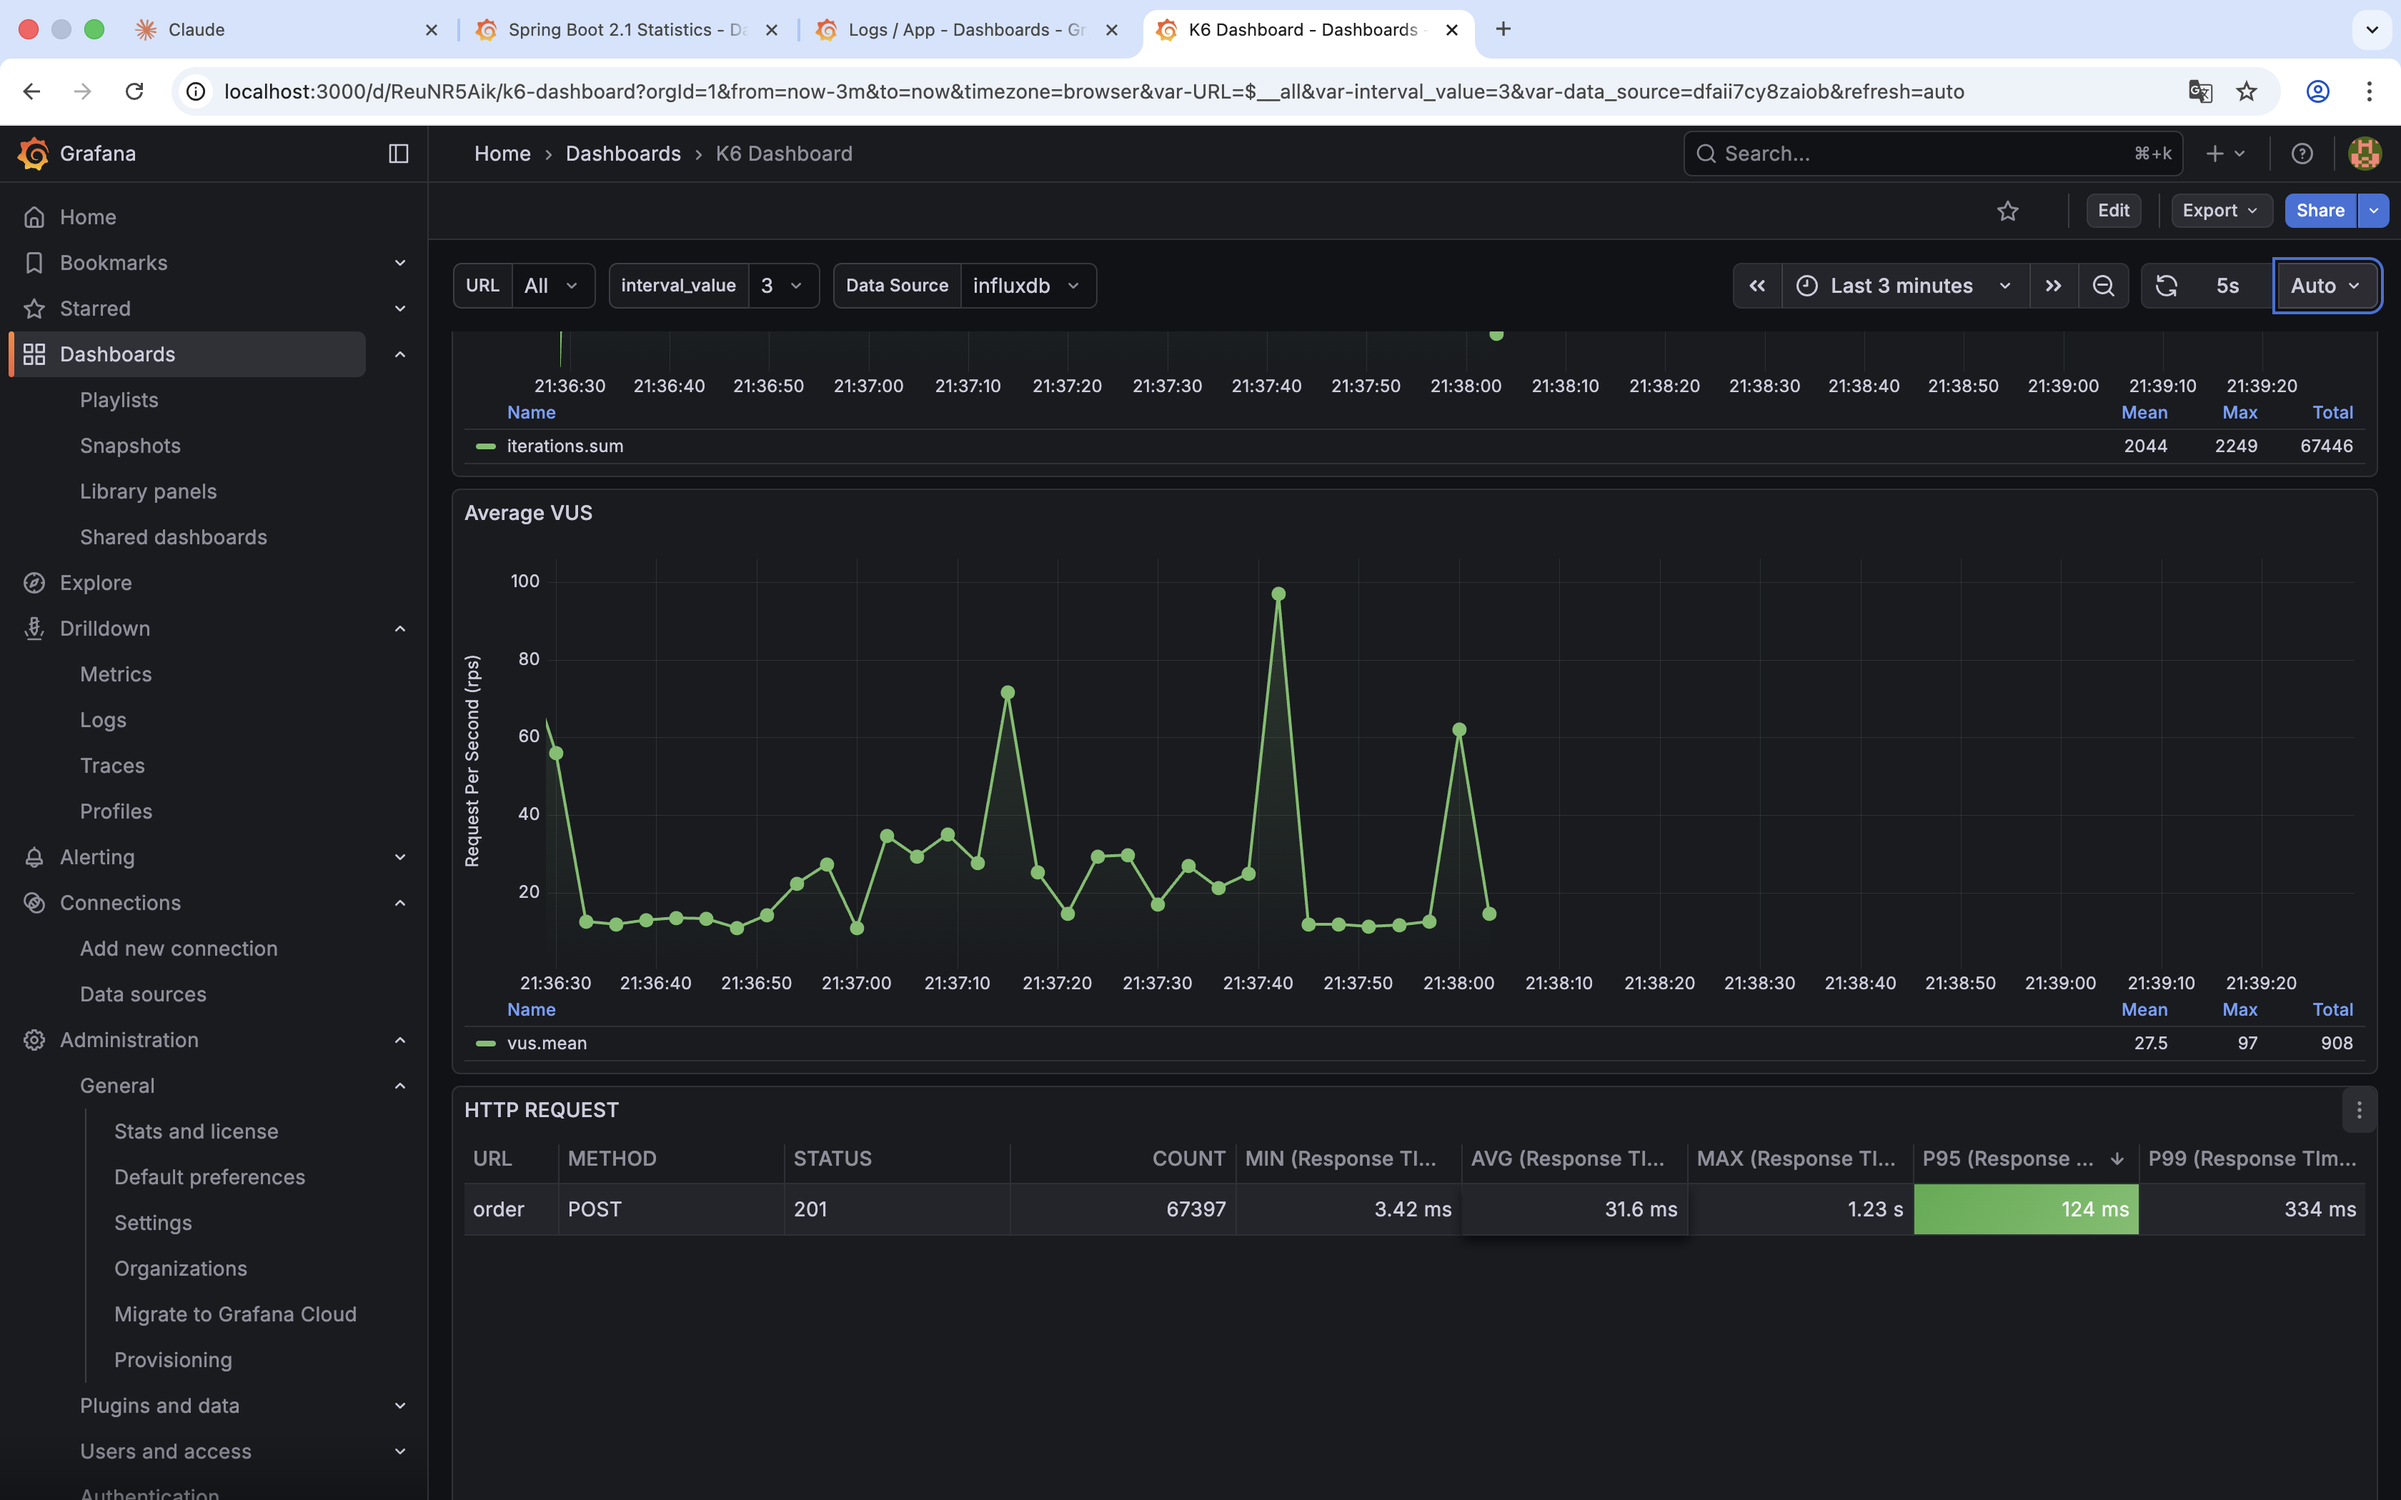
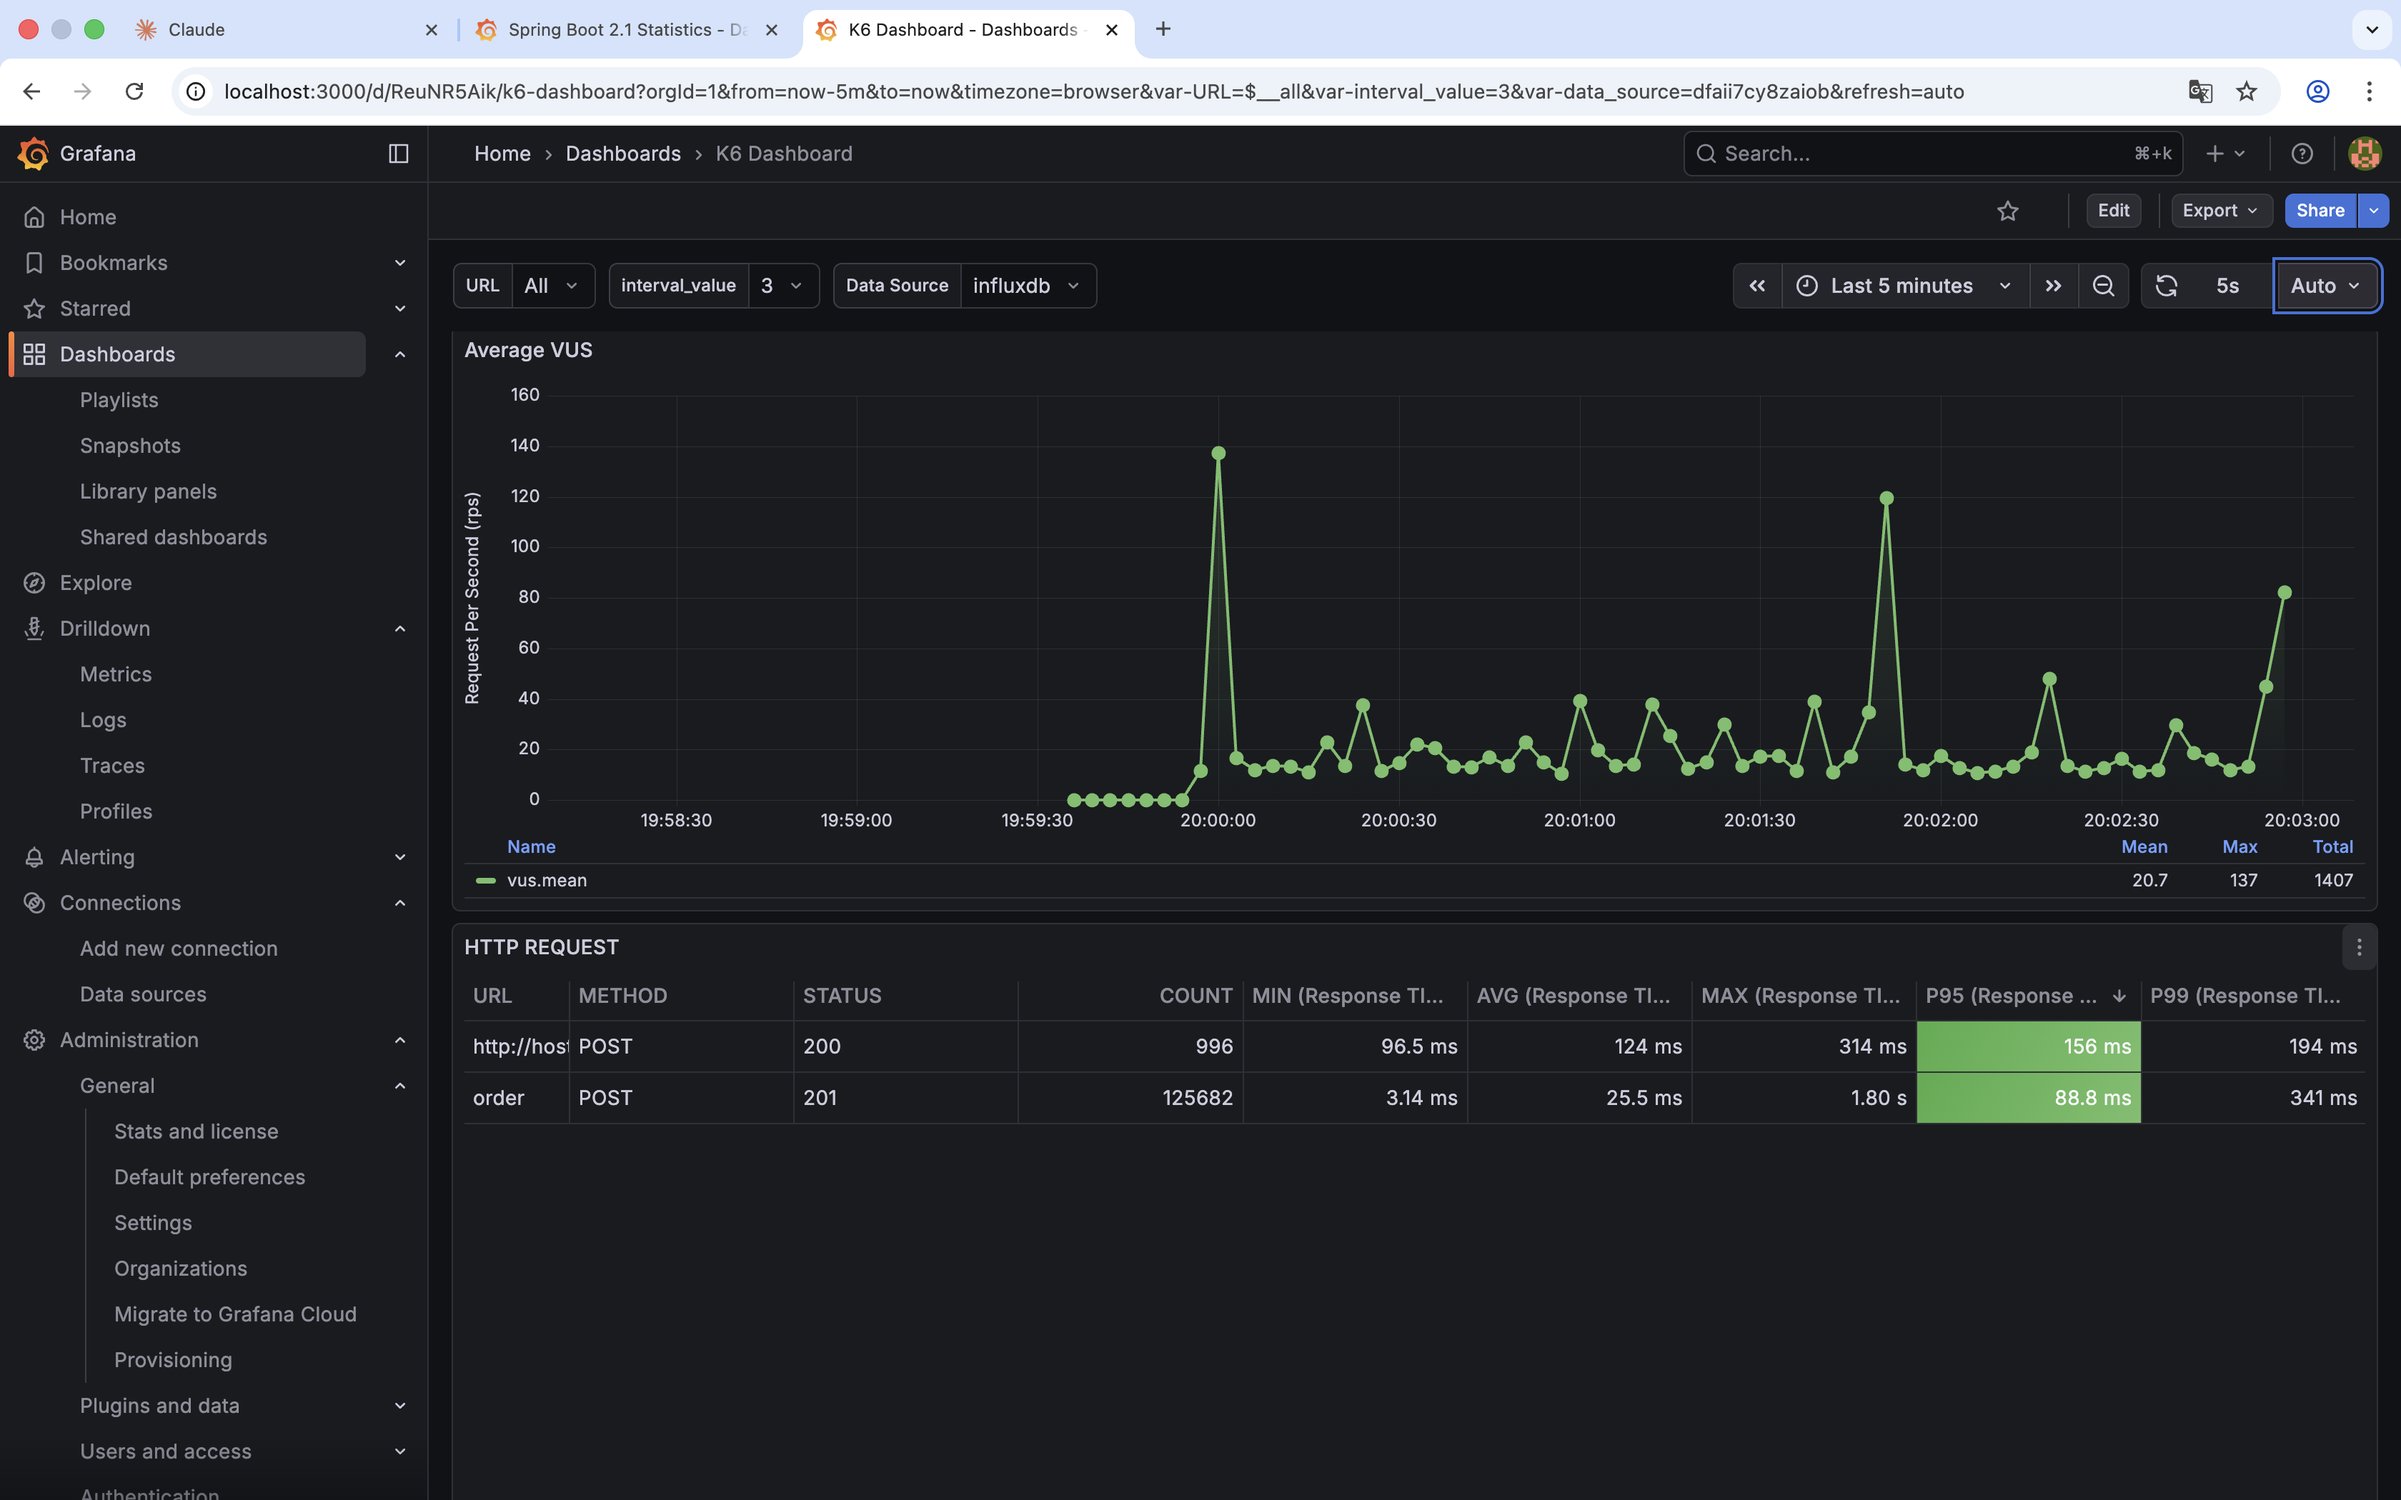
test(product): k6 script 로그인처리를 setup으로 옮긴뒤 부하 테스트 진행

diff --git a/k6/scripts/order-constant-test.js b/k6/scripts/order-constant-test.js
@@ -2,6 +2,7 @@ import http from "k6/http";
 import { check, sleep } from "k6";
 
 export const options = {
+    setupTimeout: "5m", // setup 타임아웃 5분으로 증가
     scenarios: {
         constant_load: {
             executor: "constant-arrival-rate",
@@ -29,46 +30,63 @@ const PRODUCT_ID = parseInt(__ENV.PRODUCT_ID || "2", 10);
 const QTY = parseInt(__ENV.QTY || "1", 10);
 const ITEMS_FIELD = __ENV.ITEMS_FIELD || "orderProducts";
 
-const tokenByVu = new Map();
-
 function getUserIndexForVu() {
     return ((__VU - 1) % USER_COUNT) + 1;
 }
 
-function loginAndGetToken(userIndex) {
-    const username = `test${userIndex}`;
+export function setup() {
+    console.log(`Setup: Logging in ${USER_COUNT} users...`);
+    const tokens = {};
+    const BATCH_SIZE = 50; // 50개씩 병렬 처리
 
-    const res = http.post(
-        `${BASE_URL}${LOGIN_PATH}`,
-        JSON.stringify({ loginId: username, password: PASSWORD }),
-        { headers: { "Content-Type": "application/json" }, tags: { name: "login" } }
-    );
+    for (let start = 1; start <= USER_COUNT; start += BATCH_SIZE) {
+        const end = Math.min(start + BATCH_SIZE - 1, USER_COUNT);
+        const requests = {};
 
-    const ok = check(res, {
-        "login status is 200": (r) => r.status === 200,
-        "login has accessToken": (r) => !!r.json("accessToken"),
-    });
+        // 배치 요청 준비
+        for (let i = start; i <= end; i++) {
+            const username = `test${i}`;
+            requests[`user_${i}`] = {
+                method: "POST",
+                url: `${BASE_URL}${LOGIN_PATH}`,
+                body: JSON.stringify({ loginId: username, password: PASSWORD }),
+                params: { headers: { "Content-Type": "application/json" } },
+            };
+        }
 
-    if (!ok) return null;
-    return res.json("accessToken");
+        // 병렬 요청 실행
+        const responses = http.batch(requests);
+
+        // 응답 처리
+        for (let i = start; i <= end; i++) {
+            const res = responses[`user_${i}`];
+            const ok = check(res, {
+                "login status is 200": (r) => r.status === 200,
+                "login has accessToken": (r) => !!r.json("accessToken"),
+            });
+
+            if (ok) {
+                tokens[i] = res.json("accessToken");
+            } else {
+                console.error(`Failed to login user: test${i}`);
+            }
+        }
+
+        console.log(`Logged in ${end}/${USER_COUNT} users`);
+        sleep(0.1); // 배치 간 짧은 딜레이
+    }
+
+    console.log(`Setup complete: ${Object.keys(tokens).length}/${USER_COUNT} users logged in`);
+    return { tokens };
 }
 
-function getTokenForThisVu() {
-    const vu = __VU;
-    if (tokenByVu.has(vu)) return tokenByVu.get(vu);
-
-    const userIndex = getUserIndexForVu();
-    const token = loginAndGetToken(userIndex);
-    if (token) tokenByVu.set(vu, token);
-    return token;
-}
-
-export default function () {
+export default function (data) {
     const userIndex = getUserIndexForVu();
     const addressId = userIndex;
 
-    const token = getTokenForThisVu();
+    const token = data.tokens[userIndex];
     if (!token) {
+        console.error(`No token for user ${userIndex}`);
         sleep(0.1);
         return;
     }
